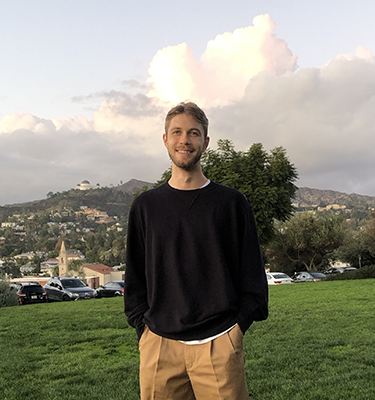
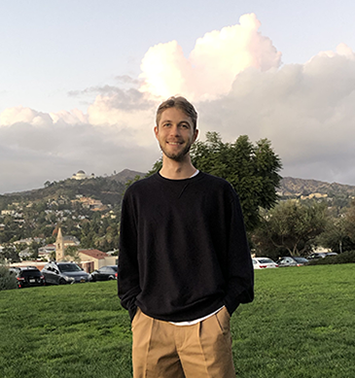
Adjust mobile profile, updated css for responsive images.

diff --git a/pages/about.tsx b/pages/about.tsx
@@ -14,15 +14,15 @@ const Index: NextPage = () => {
             <Head>
                 <title>Coles Michaels - About</title>
             </Head>
-            <div className="profile-image">
-                <a href="https://github.com/cmichaelsd/MySite">
-                    <picture>
-                        <source srcSet="/static/ColeMichaelsMobile.png" media="(max-width: 375px)" />
-                        <img src="/static/ColeMichaels.png" alt="Cole Michaels" />
-                    </picture>
-                </a>
-            </div>
             <div className="margin">
+                <div className="profile-image">
+                    <a href="https://github.com/cmichaelsd/MySite">
+                        <picture>
+                            <source srcSet="/static/ColeMichaelsMobile.png" media="(max-width: 660px)" />
+                            <img src="/static/ColeMichaels.png" alt="Cole Michaels" />
+                        </picture>
+                    </a>
+                </div>
                 <p>I'm Cole Michaels.</p>
                 <p>
                     I'm a fulltime Fullstack Engineer for V Shred and oncall as a Fullstack Engineer for Jijenge Academy.
@@ -63,7 +63,7 @@ const Index: NextPage = () => {
                 </p>
                 <style jsx>{`
                     .margin {
-                        margin: 1rem;
+                        margin: 0.5rem;
                         margin-bottom: 4rem;
                     }
                     .margin ul li {
@@ -75,6 +75,12 @@ const Index: NextPage = () => {
                     .contact-me {
                         color: ${theme.highlight};
                         text-decoration-color: ${theme.highlight};
+                    }
+                    .profile-image {
+                        display: flex;
+                        justify-content: center;
+                        align-content: center;
+                        margin-top: 1rem;
                     }
                 `}</style>
             </div>
